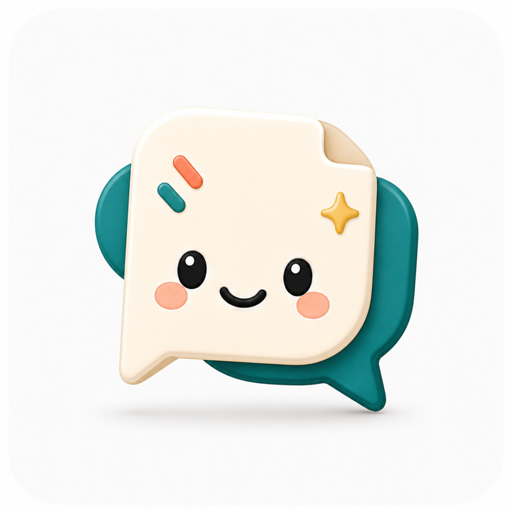
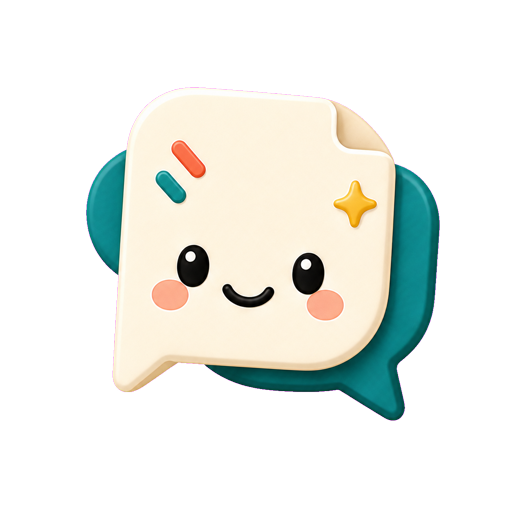
feat(web): 更新对话图标

diff --git a/apps/web/src/views/docs/components/publication-site-nav-panel/index.vue b/apps/web/src/views/docs/components/publication-site-nav-panel/index.vue
@@ -24,16 +24,22 @@ const props = withDefaults(defineProps<PublicationSiteNavPanelProps>(), {
 const emits = defineEmits<PublicationSiteNavPanelEmits>()
 
 const drafts = shallowRef<NavItemDraft[]>([])
-const activeSections = computed(() =>
-  [...props.sections]
-    .filter(section => section.status !== DOCUMENT_PUBLICATION_ENTRY_STATUS.REMOVED)
-    .sort(compareOrderedItem),
-)
 const activePages = computed(() =>
   [...props.pages]
     .filter(page => page.status !== DOCUMENT_PUBLICATION_ENTRY_STATUS.REMOVED)
     .sort(compareOrderedItem),
 )
+const firstPageIdBySectionId = computed(() => {
+  const pageMap = new Map<string, string>()
+
+  for (const page of activePages.value) {
+    if (!pageMap.has(page.sectionId)) {
+      pageMap.set(page.sectionId, page.id)
+    }
+  }
+
+  return pageMap
+})
 
 watch(
   () => props.navItems,
@@ -194,13 +200,6 @@ function saveNavItems() {
 }
 
 function resolveTargetOptions(item: NavItemDraft) {
-  if (item.target === DOCUMENT_PUBLICATION_NAV_ITEM_INTERNAL_TARGET.SECTION) {
-    return activeSections.value.map(section => ({
-      label: section.title,
-      value: section.id,
-    }))
-  }
-
   if (item.target === DOCUMENT_PUBLICATION_NAV_ITEM_INTERNAL_TARGET.PAGE) {
     return activePages.value.map(page => ({
       label: page.title,
@@ -232,8 +231,12 @@ function toDraft(item: PublicationNavItem): NavItemDraft {
     id: item.id,
     type: item.type,
     label: item.label,
-    target: item.target,
-    targetId: item.targetId ?? '',
+    target: item.target === DOCUMENT_PUBLICATION_NAV_ITEM_INTERNAL_TARGET.SECTION
+      ? DOCUMENT_PUBLICATION_NAV_ITEM_INTERNAL_TARGET.PAGE
+      : item.target,
+    targetId: item.target === DOCUMENT_PUBLICATION_NAV_ITEM_INTERNAL_TARGET.SECTION
+      ? firstPageIdBySectionId.value.get(item.targetId ?? '') ?? ''
+      : item.targetId ?? '',
     url: '',
     openTarget: DOCUMENT_PUBLICATION_NAV_ITEM_EXTERNAL_TARGET.BLANK,
     order: item.order,
@@ -309,7 +312,6 @@ function compareOrderedItem(left: { order: number, updatedAt: string }, right: {
               @change="value => patchDraft(row.localId, { target: value, targetId: '' })"
             >
               <ElOption label="首页" :value="DOCUMENT_PUBLICATION_NAV_ITEM_INTERNAL_TARGET.HOME" />
-              <ElOption label="分组" :value="DOCUMENT_PUBLICATION_NAV_ITEM_INTERNAL_TARGET.SECTION" />
               <ElOption label="页面" :value="DOCUMENT_PUBLICATION_NAV_ITEM_INTERNAL_TARGET.PAGE" />
             </ElSelect>
             <ElSelect

diff --git a/apps/web/src/components/chat-message/ChatAssistantAvatar.vue b/apps/web/src/components/chat-message/ChatAssistantAvatar.vue
@@ -1,7 +1,7 @@
 <script setup lang="ts">
 const props = withDefaults(defineProps<{
   pending?: boolean
-  size?: 'md' | 'sm'
+  size?: 'md' | 'sm' | 'xs'
 }>(), {
   pending: false,
   size: 'md',
@@ -72,6 +72,11 @@ const props = withDefaults(defineProps<{
 .chat-assistant-avatar--sm {
   width: 1.5rem;
   height: 1.5rem;
+}
+
+.chat-assistant-avatar--xs {
+  width: 1.25rem;
+  height: 1.25rem;
 }
 
 .chat-assistant-avatar__image {

diff --git a/apps/web/src/views/docs/components/document-header-actions/index.vue b/apps/web/src/views/docs/components/document-header-actions/index.vue
@@ -6,6 +6,7 @@ import {
   DOCUMENT_PAGE_WIDTH_MODE_LABELS,
   DOCUMENT_PAGE_WIDTH_MODE_VALUES,
 } from '@haohaoxue/samepage-contracts'
+import ChatAssistantAvatar from '@/components/chat-message/ChatAssistantAvatar.vue'
 import { useDocumentHeaderActions } from '../../composables/useDocumentHeaderActions'
 
 const pageWidthPreviewClass: Record<DocumentPageWidthMode, string> = {
@@ -48,7 +49,7 @@ const {
         title="AI 对话"
         @click="toggleDocsChatPanel"
       >
-        <SvgIcon category="ui" icon="chat" />
+        <ChatAssistantAvatar />
       </ElButton>
     </ElTooltip>
 